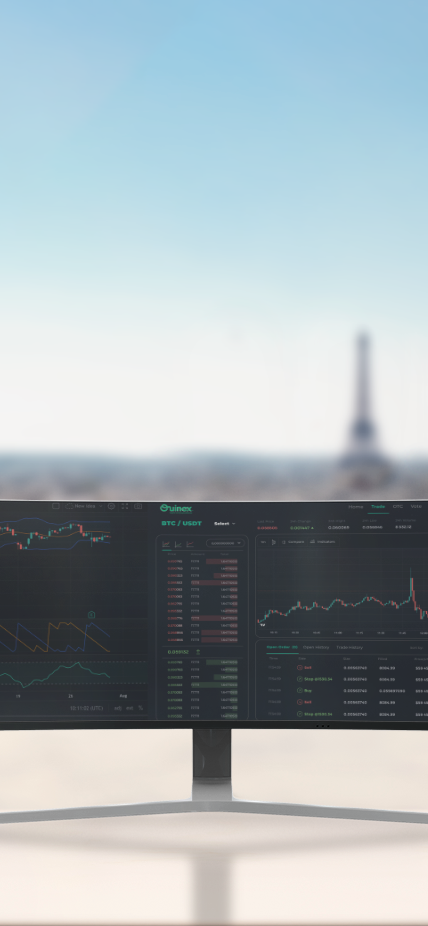
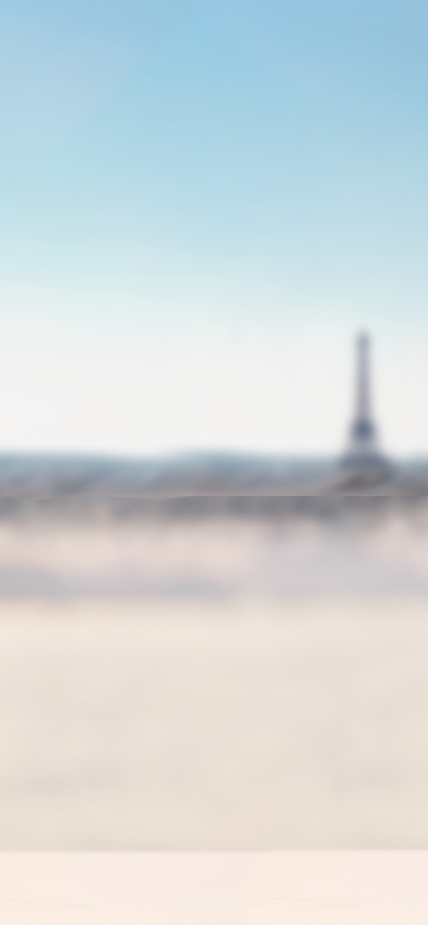
Fix monitor background, now monitor bg in ::before

Changed region(s): [[0.0, 0.514, 1.0, 1.0]]

diff --git a/src/css/style.css b/src/css/style.css
@@ -29,7 +29,6 @@ body {
   display: flex;
   flex-wrap: wrap;
   min-height: 100vh;
-  padding: 0px 20px;
   text-align: center;
 }
 
@@ -87,7 +86,25 @@ main.content p.secondary-text-color {
 }
 
 main .coming-soon-form {
-  margin-top: 30px;
+  /*margin-top: 30px;*/
+  padding: 20px 0 100px;
+  position: relative;
+}
+
+main .coming-soon-form::before {
+  content: "";
+  background: url(../img/coming-soon-movil-pc-bg.png);
+  background-size: 100% 100%;
+  background-position: center center;
+  background-repeat: no-repeat;
+  position: absolute;
+  top: 0px;
+  left: 0px;
+  width: 100%;
+  height: 100%;
+  z-index: -1;
+  /*margin-top: 60px;
+  margin-bottom: 130px;*/
 }
 
 main .coming-soon-form h2 {
@@ -96,6 +113,7 @@ main .coming-soon-form h2 {
   font-weight: 700;
   font-size: 28px;
   line-height: 117%;
+  margin: 0 0 10px;
 }
 
 main .coming-soon-form form {
@@ -242,14 +260,32 @@ footer .signature {
   }
 
   main .coming-soon-form {
-    margin-top: 60px;
+    margin-top: 30px;
+    padding: 30px 0 100px;
+    /*position: relative;*/
     /*margin-bottom: 130px;*/
+  }
+
+  main .coming-soon-form::before {
+    content: "";
+    background: url(../img/coming-soon-desktop-pc-bg.png);
+    background-size: 100% 100%;
+    background-position: center center;
+    background-repeat: no-repeat;
+    /*position: absolute;
+    top: 0px;
+    left: 0px;
+    width: 100%;
+    height: 100%;
+    z-index: -1;*/
+    /*margin-top: 60px;
+    margin-bottom: 130px;*/
   }
 
   main .coming-soon-form h2 {
     font-size: 30px;
     margin: 0;
-    margin-top: 85px;
+    /*margin-top: 85px;*/
   }
 
   main .coming-soon-form form {
